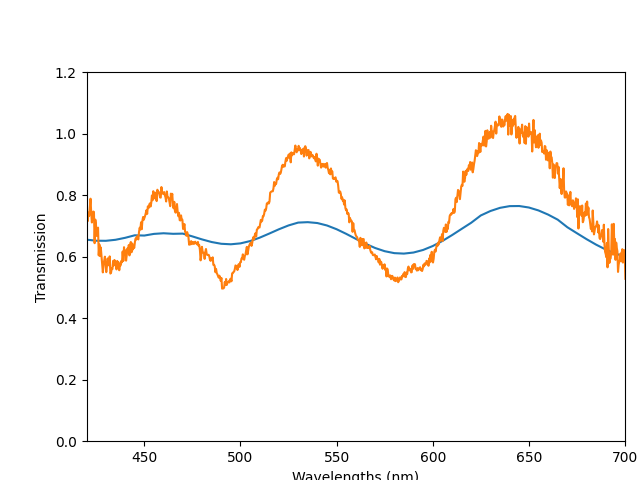
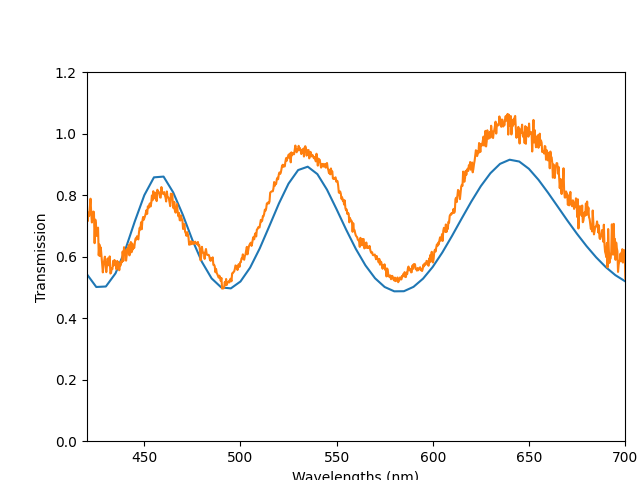
delete requirements

diff --git a/functions.py b/functions.py
@@ -160,7 +160,7 @@ def grating_function(input, output, dmd):
     # gaussian beam has E(r,z)~exp(-r^2/w(z)^2), minimum waist radius for a lens given by w0=lambda/NA*pi, about 4 micron for our prototype at 600nm, should we be using the PSF instead?
     effective_beam_waist=input.wavelength/(np.pi*input.lens_NA)
     #FT of beam profile E(r,z) = exp((k^2*w0^2)/4), where we approximate k as 2*pi*x/z*lambda=2*pi*sin(angle)/lambda=2*pi*angle/lambda
-    factor=2 #dodgy factor
+    factor=5 #dodgy factor 5 ok
     sigma = input.wavelength/(np.sqrt(2)*effective_beam_waist*np.pi*factor) #for intensity profile
     #parax approx tan(x)=sin(x)=x
 
